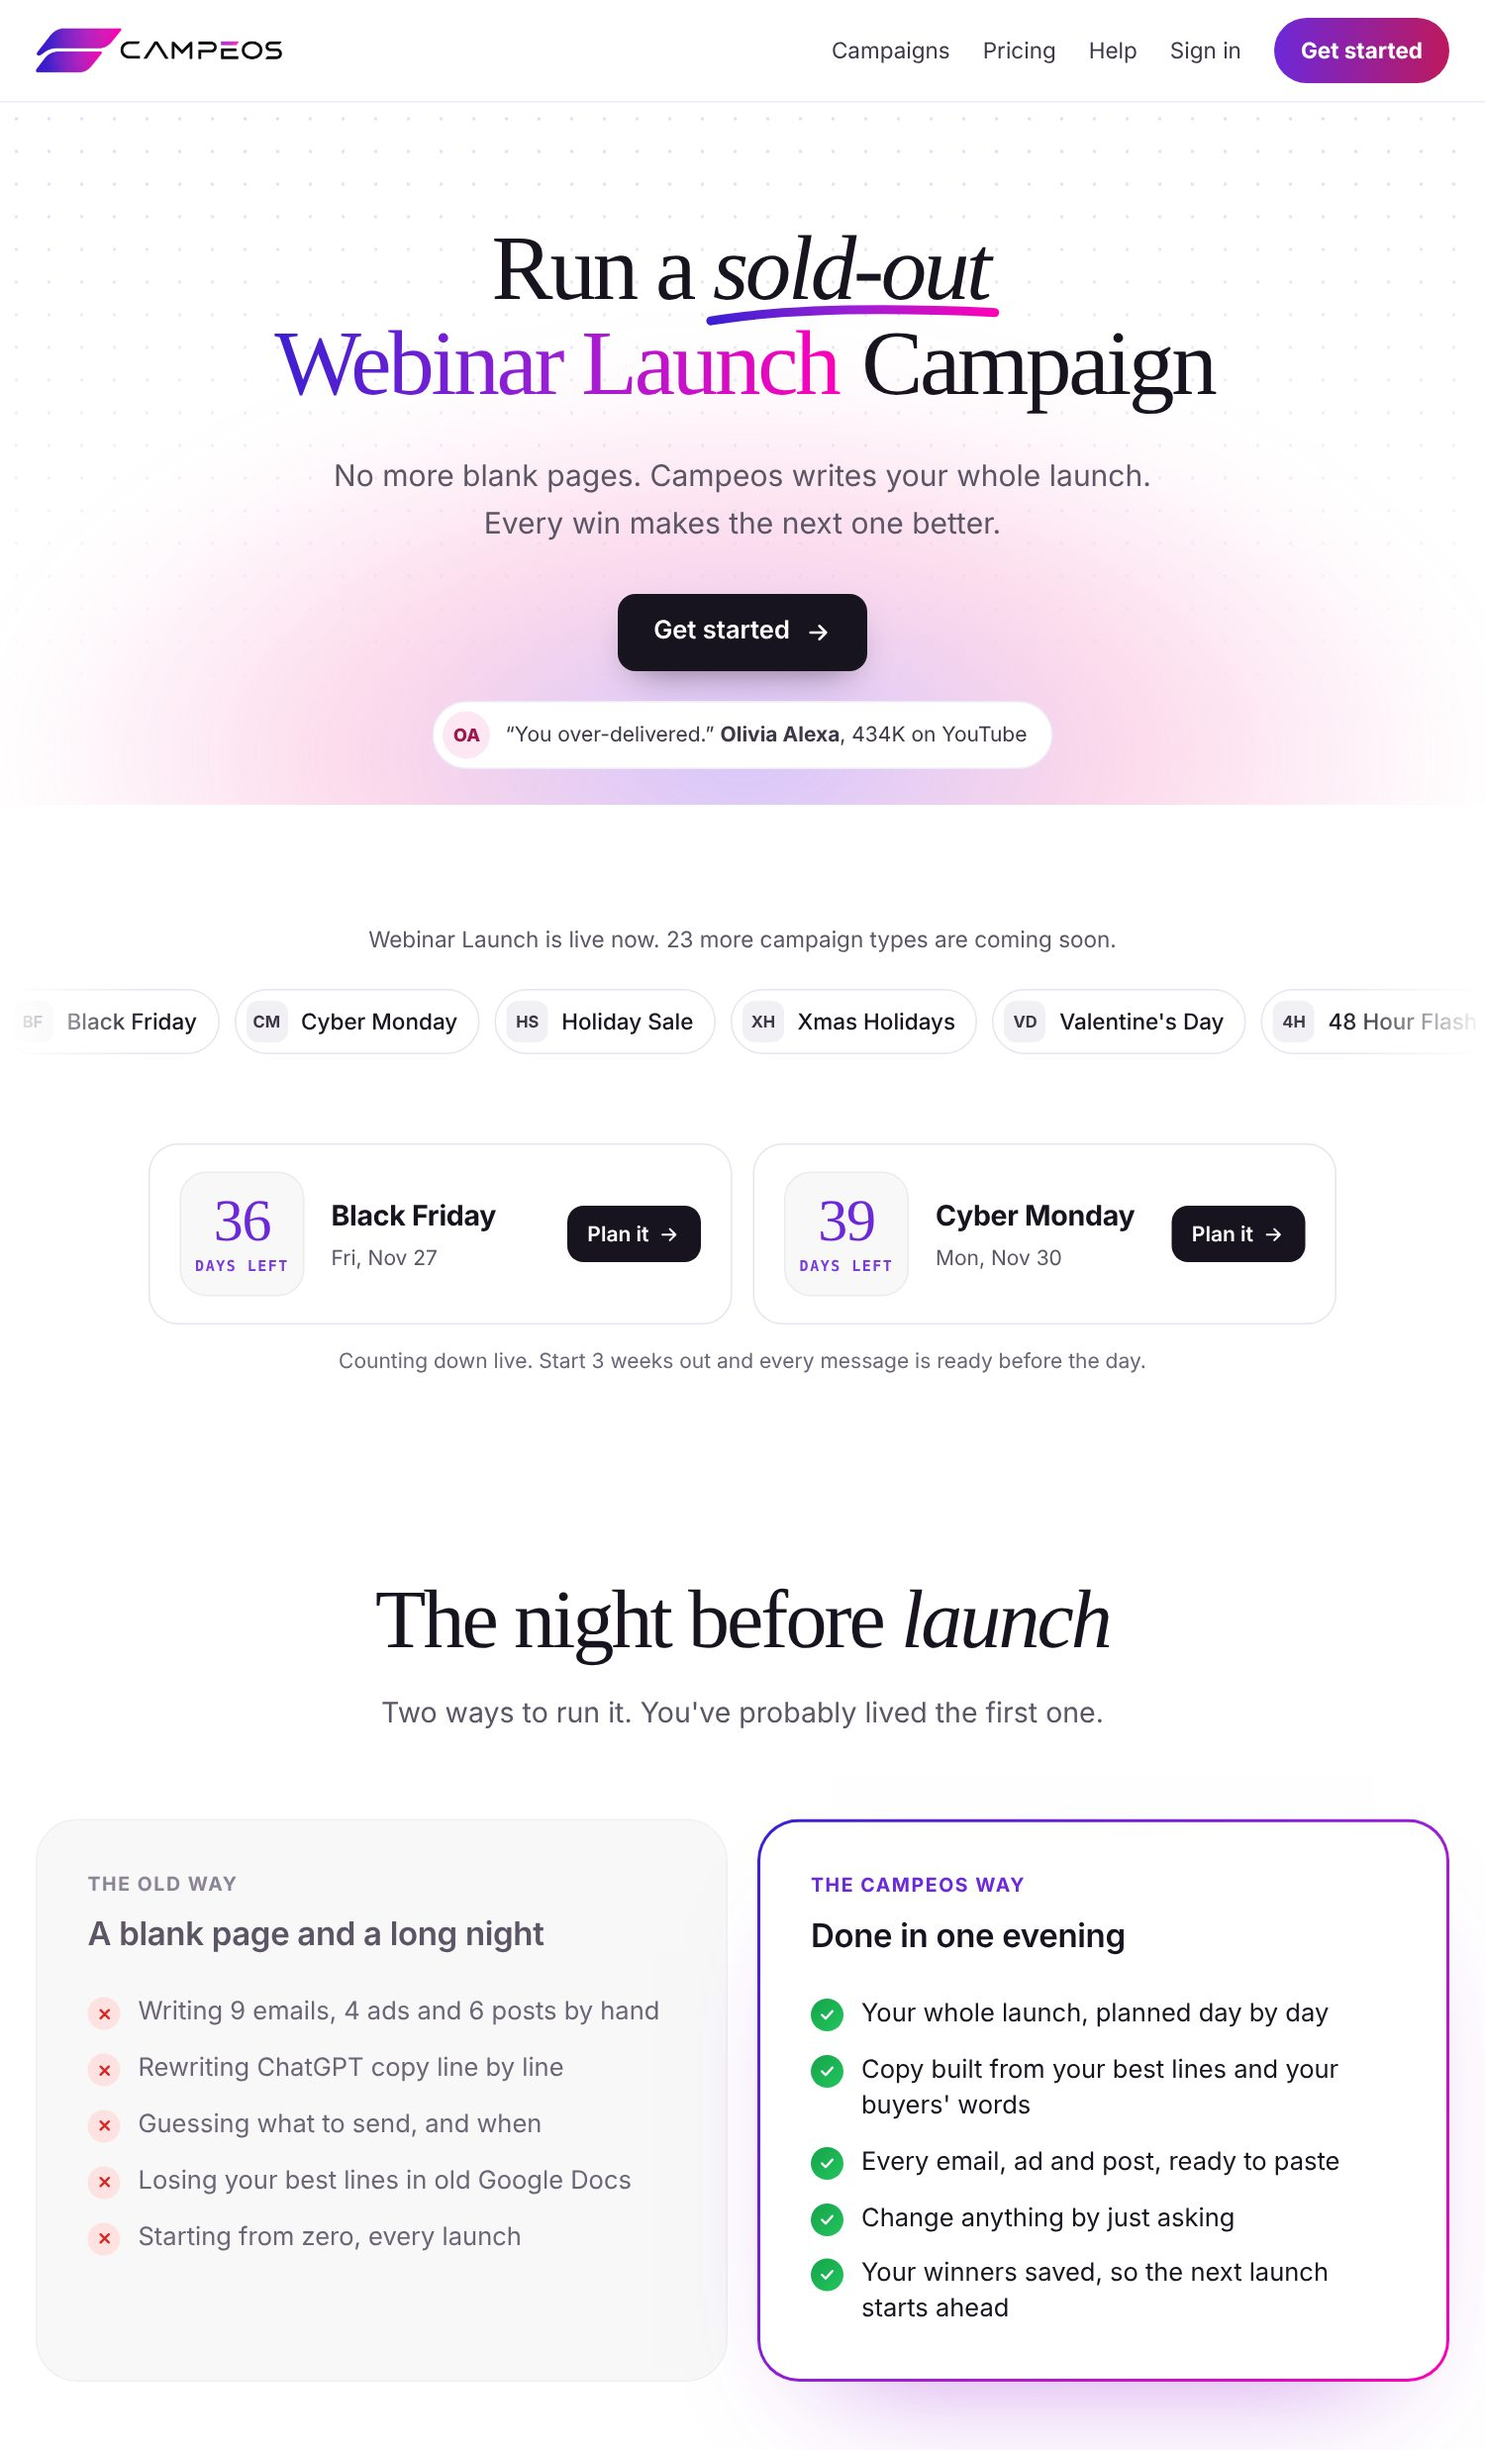
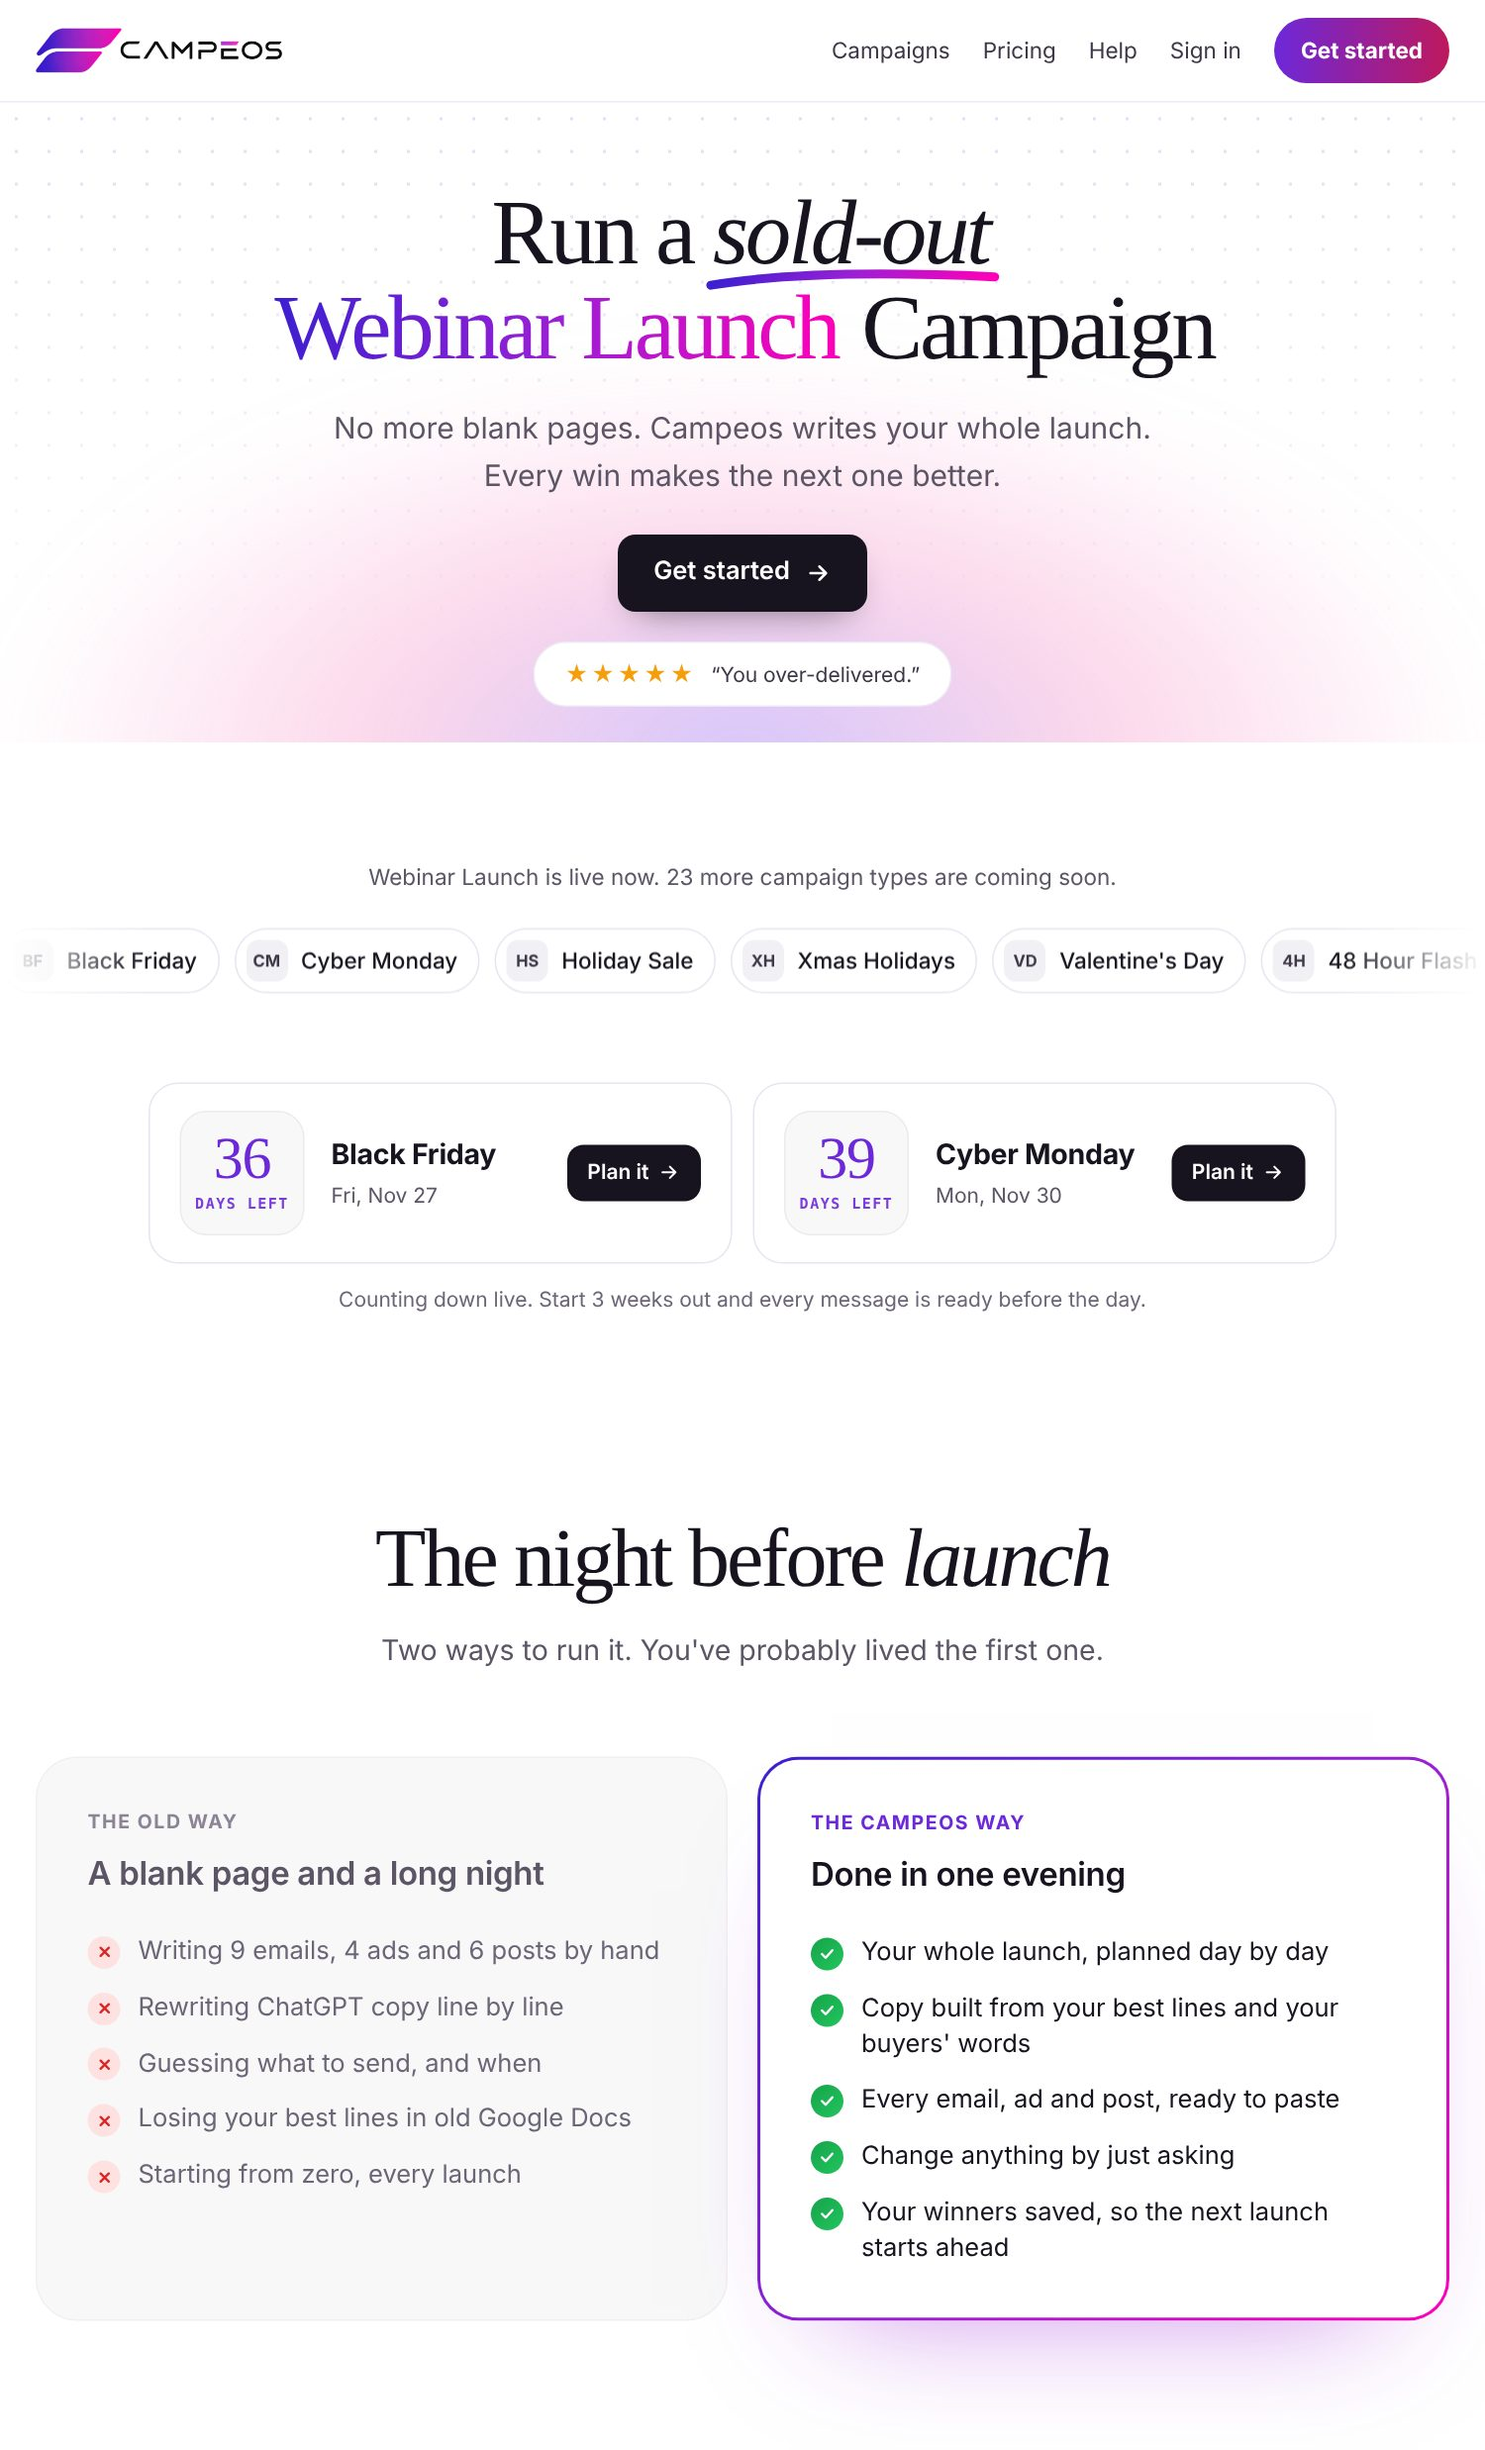
Demo shows testimonial quote without name

diff --git a/components/landing/AppMocks.jsx b/components/landing/AppMocks.jsx
@@ -823,12 +823,12 @@ const SCAN_URL = 'campeos.com';
 const SITE_H = 1650; // css px height of public/landing/scan-site.jpg when it is 1000px wide
 // Where each find sits on the page picture: [left, top, width, height] as fractions.
 const FINDS = [
-  { label: 'Hook', value: 'Run a sold-out launch', box: [0.024, 0.0903, 0.952, 0.0781] },
-  { label: 'Offer', value: 'Your whole launch, written for you', box: [0.2, 0.1842, 0.6, 0.0388] },
-  { label: 'Proof', value: 'Olivia Alexa, 434K on YouTube', box: [0.2914, 0.286, 0.4173, 0.0279] },
-  { label: 'Urgency', value: 'Live countdown to launch day', box: [0.1, 0.4697, 0.8, 0.0758] },
-  { label: 'Pain', value: 'A blank page and a long night', box: [0.024, 0.7424, 0.466, 0.2297] },
-  { label: 'Promise', value: 'Done in one evening', box: [0.51, 0.7424, 0.466, 0.2297] },
+  { label: 'Hook', value: 'Run a sold-out launch', box: [0.024, 0.0758, 0.952, 0.0781] },
+  { label: 'Offer', value: 'Your whole launch, written for you', box: [0.2, 0.1648, 0.6, 0.0388] },
+  { label: 'Testimonial', value: '\u201cYou over-delivered.\u201d', box: [0.3595, 0.2618, 0.2811, 0.027] },
+  { label: 'Urgency', value: 'Live countdown to launch day', box: [0.1, 0.4448, 0.8, 0.0758] },
+  { label: 'Pain', value: 'A blank page and a long night', box: [0.024, 0.7176, 0.466, 0.2297] },
+  { label: 'Promise', value: 'Done in one evening', box: [0.51, 0.7176, 0.466, 0.2297] },
 ];
 const BURST = [[-120, -46], [-84, -78], [-40, -92], [0, -100], [40, -92], [84, -78], [120, -46], [-62, -30], [62, -30], [0, -60]];
 
@@ -910,7 +910,7 @@ function ScreenTell() {
                     {on ? (
                       <div key="on" className="cps-flash" style={{ position: 'absolute', inset: '2px -4px', borderRadius: '10px', display: 'flex', alignItems: 'center', gap: '12px', padding: '0 8px' }}>
                         <Tick size={20} pop />
-                        <span style={{ width: '70px', flexShrink: 0, fontSize: '13px', color: '#8A8494' }}>{label}</span>
+                        <span style={{ width: '86px', flexShrink: 0, fontSize: '13px', color: '#8A8494' }}>{label}</span>
                         <span style={{ flex: 1, minWidth: 0, fontSize: '14px', fontWeight: 600, lineHeight: 1.3 }}>{value}</span>
                       </div>
                     ) : (
